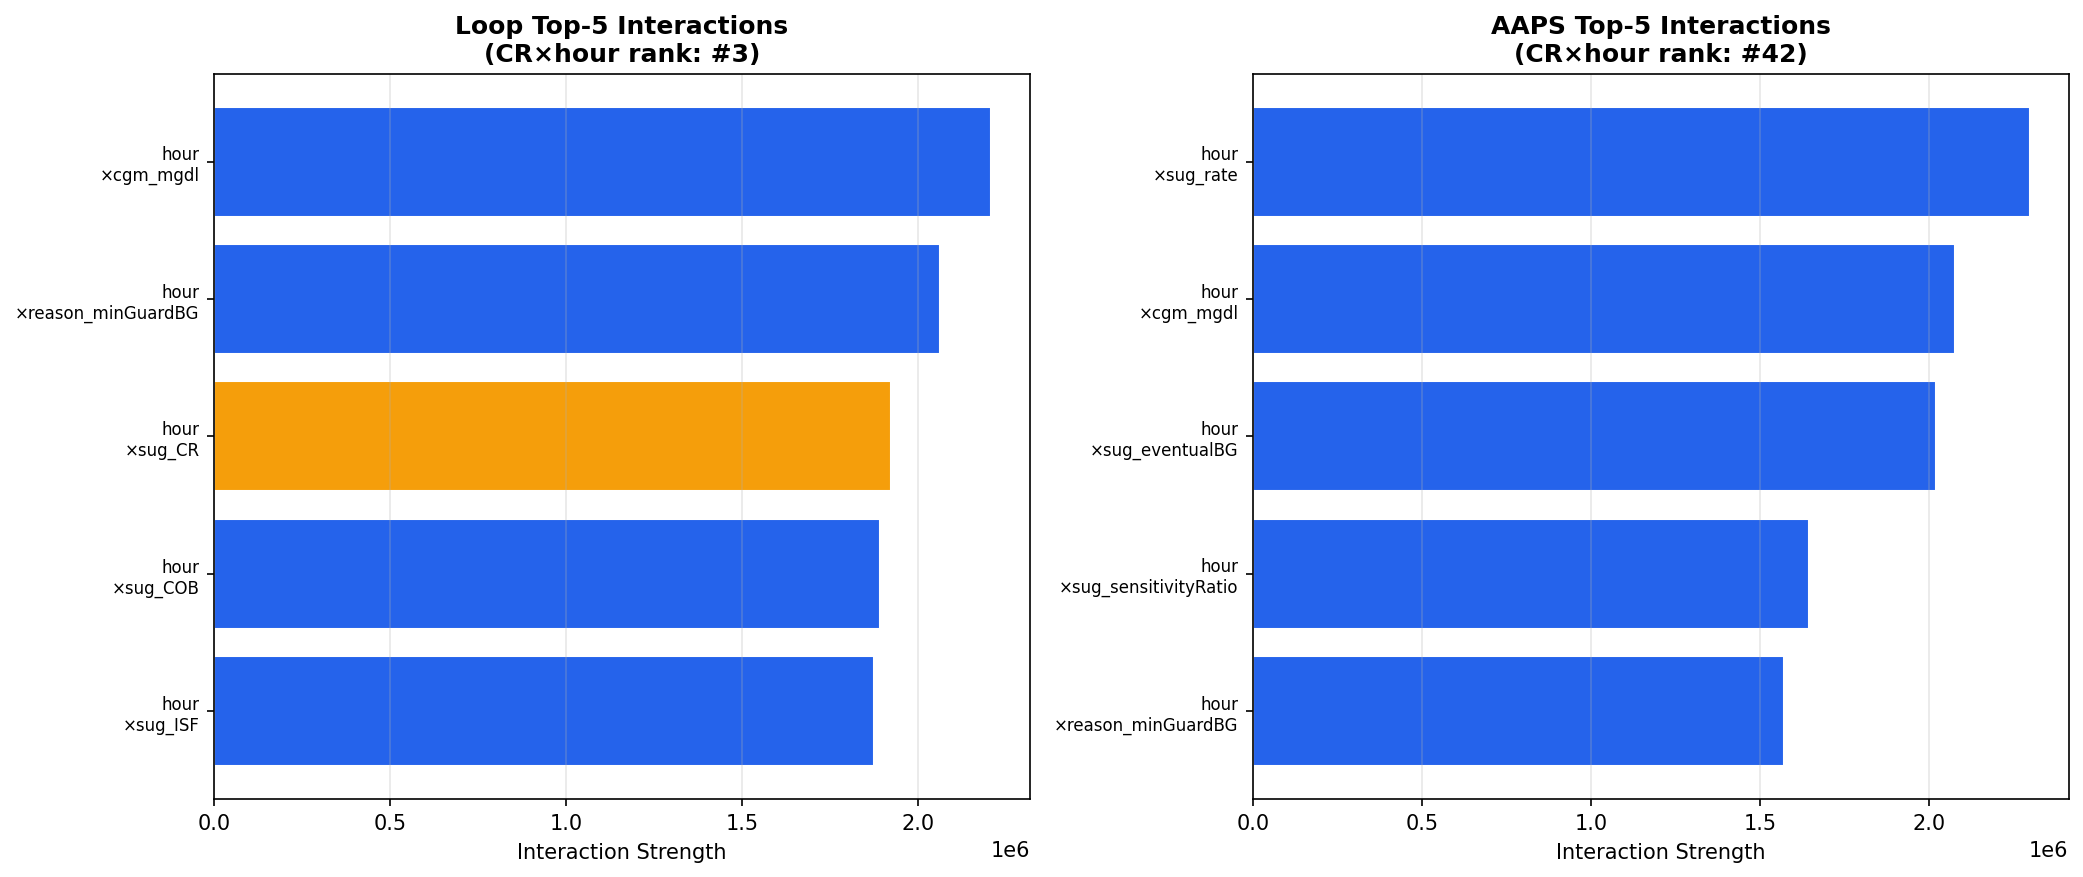
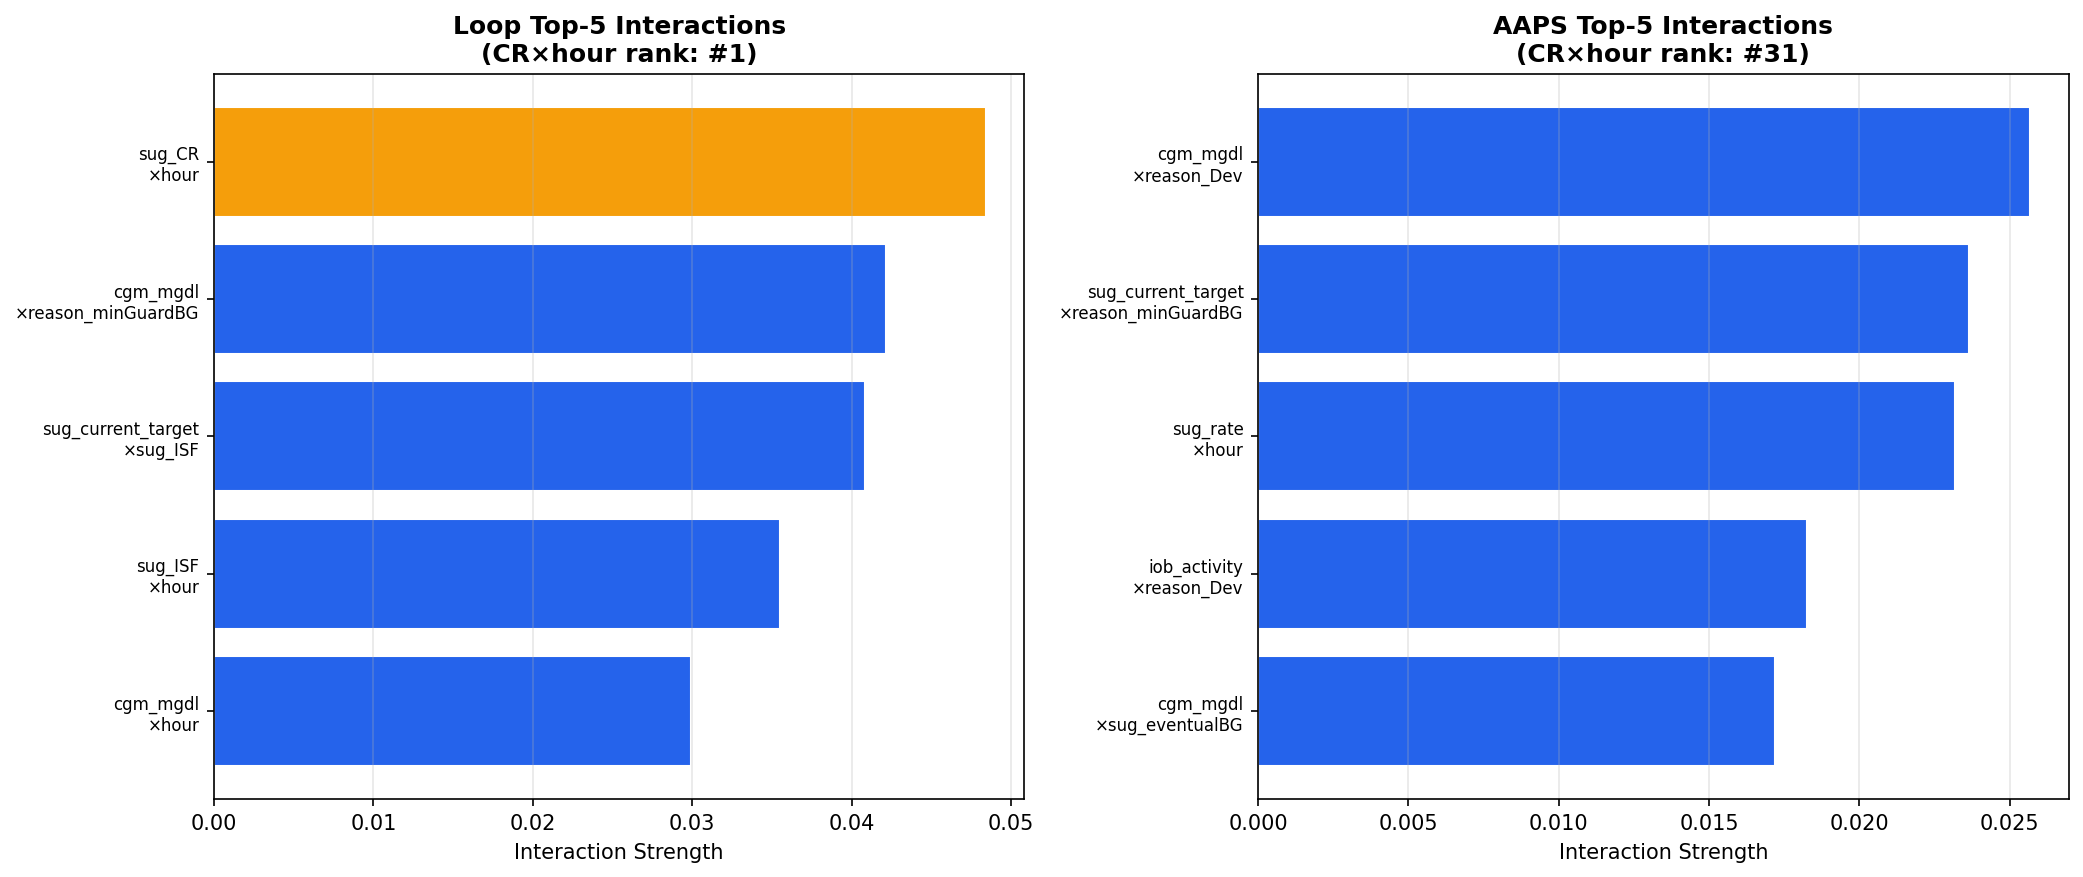
fix(oref-replication): EXP-2421 with real SHAP interaction values
- CR×hour rank #8 (was #7 with gain proxy) using shap_interaction method
- ISF×hour is #1 interaction (0.040), not CR×hour (0.022)
- 0/18 patients have CR×hour as #1 (median rank 175)
- Loop: CR×hour=#1 vs AAPS: CR×hour=#31 (algorithm-dependent)
- Updated figures with real SHAP interaction heatmaps

diff --git a/tools/oref_inv_003_replication/reports/exp_2421_report.md b/tools/oref_inv_003_replication/reports/exp_2421_report.md
@@ -2,20 +2,20 @@
 
 **Experiment**: EXP-2421  
 **Phase**: Replication (OREF-INV-003 cross-analysis)  
-**Date**: 2026-04-11  
+**Date**: 2026-04-12  
 **Script**: `tools/oref_inv_003_replication/exp_repl_2421.py`  
 
 ## Comparison Summary
 
 | Finding | Their Claim | Our Result | Agreement |
 |---------|------------|------------|-----------|
-| F2 | CR × hour is the strongest interaction | CR × hour is #7 interaction | 🟠 partially_disagrees |
+| F2 | CR × hour is the strongest interaction | CR × hour is #8 interaction | 🟠 partially_disagrees |
 | F2-aug | CR × hour interaction (pre-BG not controlled) | Pre-meal BG confound weakens CR×hour interaction | ↔ not_comparable |
 | F2-eff | — | Effective CR varies by time block (carbs R²=0.013) | ✅ agrees |
-| F2-stab | — | CR×hour is #1 in 0% of patients (median rank: 51.5) | 🟠 partially_disagrees |
-| F2-alg | — | CR×hour: Loop=#3, AAPS=#42 | 🟠 partially_disagrees |
+| F2-stab | — | CR×hour is #1 in 0% of patients (median rank: 175.0) | 🟠 partially_disagrees |
+| F2-alg | — | CR×hour: Loop=#1, AAPS=#31 | 🟠 partially_disagrees |
 | F2-meal | — | Adding CR×hour improves meal spike R² by +0.0011 | 🟠 partially_disagrees |
-| F2-circ | — | Circadian map: ISF×hour=#4, IOB×hour=#11 | ↔ not_comparable |
+| F2-circ | — | Circadian map: ISF×hour=#1, IOB×hour=#42 | ↔ not_comparable |
 
 ## Colleague's Findings (OREF-INV-003)
 
@@ -31,15 +31,15 @@
 
 ## Our Findings
 
-### F2: CR × hour is #7 interaction 🟠
+### F2: CR × hour is #8 interaction 🟠
 
-**Evidence**: Method: gain_product_proxy, rank #7
+**Evidence**: Method: shap_interaction, rank #8
 **Agreement**: partially_disagrees
 **Prior work**: EXP-2341 context CR, EXP-2221 meal pharma
 
 ### F2-aug: Pre-meal BG confound weakens CR×hour interaction ↔
 
-**Evidence**: Pre-BG→rise r=-0.652. Model A rank=7, B(no BG)=9, C(+BG terms)=18
+**Evidence**: Pre-BG→rise r=-0.652. Model A rank=8, B(no BG)=15, C(+BG terms)=6
 **Agreement**: not_comparable
 **Prior work**: EXP-2341: pre-BG explains 11-48% of rise variance
 
@@ -49,13 +49,13 @@
 **Agreement**: agrees
 **Prior work**: EXP-2341: carb counting explains 1-15% of spike variance
 
-### F2-stab: CR×hour is #1 in 0% of patients (median rank: 51.5) 🟠
+### F2-stab: CR×hour is #1 in 0% of patients (median rank: 175.0) 🟠
 
 **Evidence**: 18 patients analyzed
 **Agreement**: partially_disagrees
 **Prior work**: Per-patient analysis
 
-### F2-alg: CR×hour: Loop=#3, AAPS=#42 🟠
+### F2-alg: CR×hour: Loop=#1, AAPS=#31 🟠
 
 **Evidence**: Different algorithms show different CR×hour interaction strength
 **Agreement**: partially_disagrees
@@ -67,9 +67,9 @@
 **Agreement**: partially_disagrees
 **Prior work**: EXP-2221 meal pharmacodynamics
 
-### F2-circ: Circadian map: ISF×hour=#4, IOB×hour=#11 ↔
+### F2-circ: Circadian map: ISF×hour=#1, IOB×hour=#42 ↔
 
-**Evidence**: CR×hour=#7, target×hour=#3
+**Evidence**: CR×hour=#8, target×hour=#11
 **Agreement**: not_comparable
 **Prior work**: EXP-2271: ISF varies 2-4× circadianly
 
@@ -98,11 +98,11 @@
 
 ## Methodology Notes
 
-Trained LightGBM hypo classifiers (500 trees, lr=0.05, depth=6) on 19 patients (11 Loop + 8 AAPS/ODC). Computed pairwise interaction strengths via gain product proxy. Augmented with pre-meal BG confound analysis, effective CR calculation, and meal-centric regression models.
+Trained LightGBM hypo classifiers (500 trees, lr=0.05, depth=6) on 19 patients (11 Loop + 8 AAPS/ODC). Computed pairwise interaction strengths via SHAP interaction values. Augmented with pre-meal BG confound analysis, effective CR calculation, and meal-centric regression models.
 
 ## Synthesis
 
-CR × hour interaction rank in our data: #7 (does not replicate their #1 finding).
+CR × hour interaction rank in our data: #8 (does not replicate their #1 finding).
 Removing pre-meal BG weakens CR×hour, suggesting the interaction is genuine and not a BG confound.
 However, meal regression shows small CR×hour contribution (ΔR²=+0.0011), consistent with our EXP-2341 finding that carb counting explains only 1-15% of variance.
 
